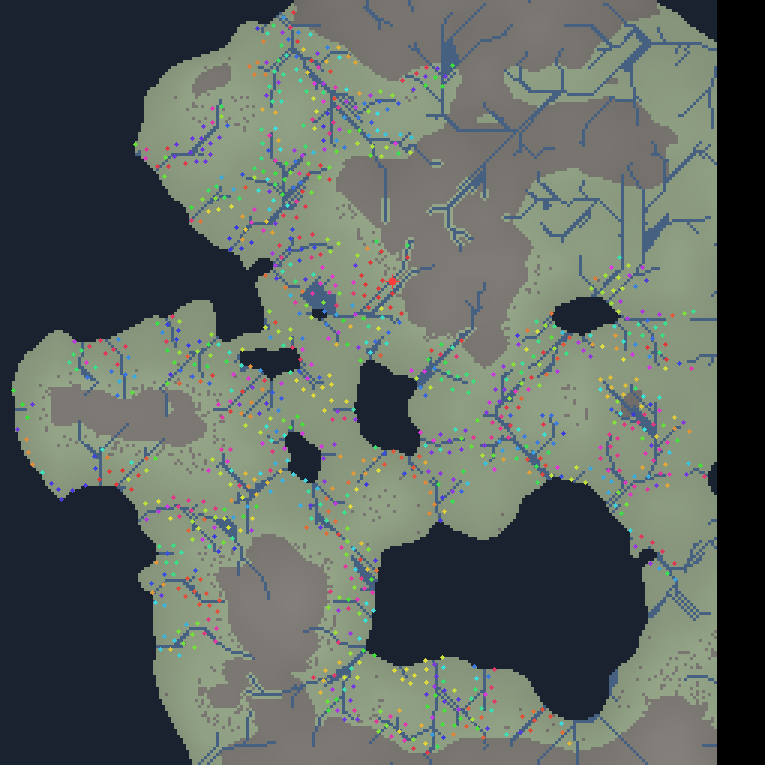
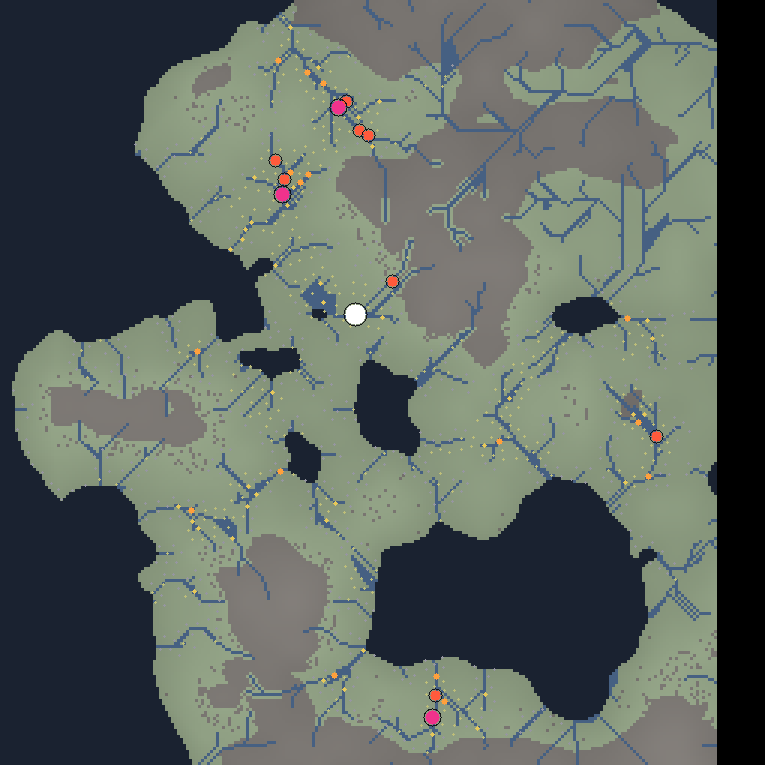
feat(map): 段を実装。1つの首都・3つの大都市・8つの都市・16の町・1,000集落で10万人
game2/src/world/tier.js。2026-08-27 のオーナー裁定を実装。

■ ★ 帰結：#17 §6-1『拠点＝分村の木の根から12里以内の村の集合』が要らなくなる
  §6-1 が自分で書いた存在理由は『30軒で必ず分村するなら100人を超える拠点が
  原理的に発生しない』だった。村がその場で太れる（30→60→…→960軒）以上、
  この前提が消える。**拠点＝村。**さっき壊れていた58村の幾何もまるごと不要になる。

■ 段は7つ。門は『人が住む建物の数』、分岐は発展度
  開拓地9 / 村30 / 大村60 / 町120(発展度20) / 都市240(30) / 大都市480(40) / 首都960(50)
  拠点地区画 1/2/3/5/11/23/47、claim半径 2/2/3/4/6/8/12区画

■ 育つ順は『交易の便』で決めた（川の等級＋海への接続＋肥沃＋12里以内の集落の数）
  歴史的に都は結節点に立つ。創世の村には最初に立った利として下駄を履かせている。

■ 実測（種29・種7）
  集落1,000 → 首都1 / 大都市3 / 都市8 / 町16 / 大村40 / 村350 / 開拓地582
  人口 101,532。拠点地の総計 1,686区画（世界の236万区画の 0.07%）
  ★ **土地が足りず段を下げた集落は0件。**地図は階層を余裕で支える
  種1（737集落しか置けない唯一の世界）でも 93,116人

■ 絵で確かめた：首都が川の合流点と湖のそばに立ち、都市が水系に沿って並ぶ

★ 正直に：段の内訳は目標値として**与えた**ものであって、経済から**導いた**ものではない。
  ここで確かめたのは『地図がその階層を支えられるか』と『交易の便で並べると
  首都がまともな場所に立つか』の2つ。誰が実際に育つかは経済を実装してから。

diff --git a/game2/src/world/tier.js b/game2/src/world/tier.js
@@ -1,0 +1,91 @@
+// 段 ── 集落が村から首都まで育つ（2026-08-27 のオーナー裁定）
+//
+// ★ 裁定：村は分けて飛ばすだけでなく **その場で太る**。30→60→120→240→480→960軒。
+//   だから #17 §6-1 の「拠点＝分村の木の根から12里以内の村の集合」は**要らなくなる。**
+//   §6-1 が自分で書いた存在理由（「30軒で必ず分村するなら100人を超える拠点が
+//   原理的に発生しない」）が、その場で太れる時点で消えるため。**拠点＝村。**
+//
+// ★ 裁定：段の門は「人が住む建物の数」。分岐は発展度。人口は付随値。
+import { W } from './mapgen.js';
+import { PW, R } from './parcel.js';
+import { PPL } from './settle.js';
+
+// 段ごとの：人が住む建物・建築枠・公共枠・拠点地区画・claim半径（区画）
+export const TIER = [
+  { name: '開拓地', homes:   9, build:   12, pub:   2, hub:  1, r:  2 },
+  { name: '村',     homes:  30, build:   32, pub:   6, hub:  2, r:  2 },
+  { name: '大村',   homes:  60, build:   68, pub:  12, hub:  3, r:  3 },
+  { name: '町',     homes: 120, build:  150, pub:  24, hub:  5, r:  4, dev: 20 },
+  { name: '都市',   homes: 240, build:  320, pub:  48, hub: 11, r:  6, dev: 30 },
+  { name: '大都市', homes: 480, build:  680, pub:  96, hub: 23, r:  8, dev: 40 },
+  { name: '首都',   homes: 960, build: 1400, pub: 200, hub: 47, r: 12, dev: 50 },
+];
+// 1人が住む建物あたりの人数（疎＝木造家屋4人／密＝長屋の混ざった街）
+const PPH = [3.5, 3.8, 4.0, 4.4, 5.2, 6.0, 6.6];
+
+// 拠点地にできる区画（平野・荒地・森林。山と川と海湖と鉱脈と使用不可は不可）
+const buildable = (v) => v === R.PLAIN || v === R.WASTE || v === R.WOOD;
+
+/**
+ * 段を割り当てる。**育つ順は「交易の便」で決める。**
+ *   川の等級 ＋ 海への接続 ＋ 他の集落への近さ（中心性）。
+ *   歴史的に都は結節点に立つ。創世の村は最初の1つなので下駄を履かせる。
+ */
+export function assignTiers(g, L, S, target) {
+  const n = S.n;
+  const score = new Float64Array(n);
+  for (let i = 0; i < n; i++) {
+    const tx = (S.vx[i] / PPL) | 0, ty = (S.vy[i] / PPL) | 0;
+    const t = ty * W + tx;
+    let s = g.river[t] * 3 + g.coast[t] * 2 + g.fert[t] * 0.2;
+    // 中心性：12里以内の他の集落の数
+    let near = 0;
+    for (let k = 0; k < n; k++) { if (k === i) continue;
+      const dx = S.vx[i]-S.vx[k], dy = S.vy[i]-S.vy[k];
+      if (dx*dx + dy*dy <= (12*PPL)*(12*PPL)) near++; }
+    s += near * 0.5;
+    if (i === 0) s += 8;                       // 創世の村（最初に立った利）
+    score[i] = s;
+  }
+  const order = [...Array(n).keys()].sort((a, b) => score[b] - score[a]);
+
+  const tier = new Uint8Array(n);
+  const owned = new Uint8Array(L.b0.length);
+  const stat = { placed: new Array(7).fill(0), short: new Array(7).fill(0), pop: 0, hubTotal: 0 };
+
+  // 上位から順に、目標の段を与えられるか土地で確かめる
+  let qi = 0; const queue = [];
+  for (let t = 6; t >= 0; t--) for (let k = 0; k < (target[t] || 0); k++) queue.push(t);
+
+  for (const i of order) {
+    const want = qi < queue.length ? queue[qi] : 0;
+    const got = tryClaim(i, want);
+    tier[i] = got;
+    stat.placed[got]++;
+    if (got < want) stat.short[want]++;
+    stat.hubTotal += TIER[got].hub;
+    stat.pop += Math.round(TIER[got].homes * PPH[got]);
+    qi++;
+  }
+  return { tier, owned, stat, score };
+
+  // その集落が段 want に要る拠点地区画を claim できるか。無理なら段を下げる
+  function tryClaim(i, want) {
+    for (let t = want; t >= 0; t--) {
+      const need = TIER[t].hub, rr = TIER[t].r;
+      const px = S.vx[i], py = S.vy[i];
+      let free = 0;
+      const got = [];
+      for (let dy = -rr; dy <= rr; dy++) for (let dx = -rr; dx <= rr; dx++) {
+        if (dx*dx + dy*dy > rr*rr) continue;
+        const x = px+dx, y = py+dy;
+        if (x < 0 || y < 0 || x >= PW || y >= PW) continue;
+        const p = y*PW + x;
+        if (owned[p] || !buildable(L.b0[p] & 15)) continue;
+        free++; if (got.length < need) got.push(p);
+      }
+      if (free >= need) { for (const p of got) owned[p] = 1; return t; }
+    }
+    return 0;
+  }
+}
